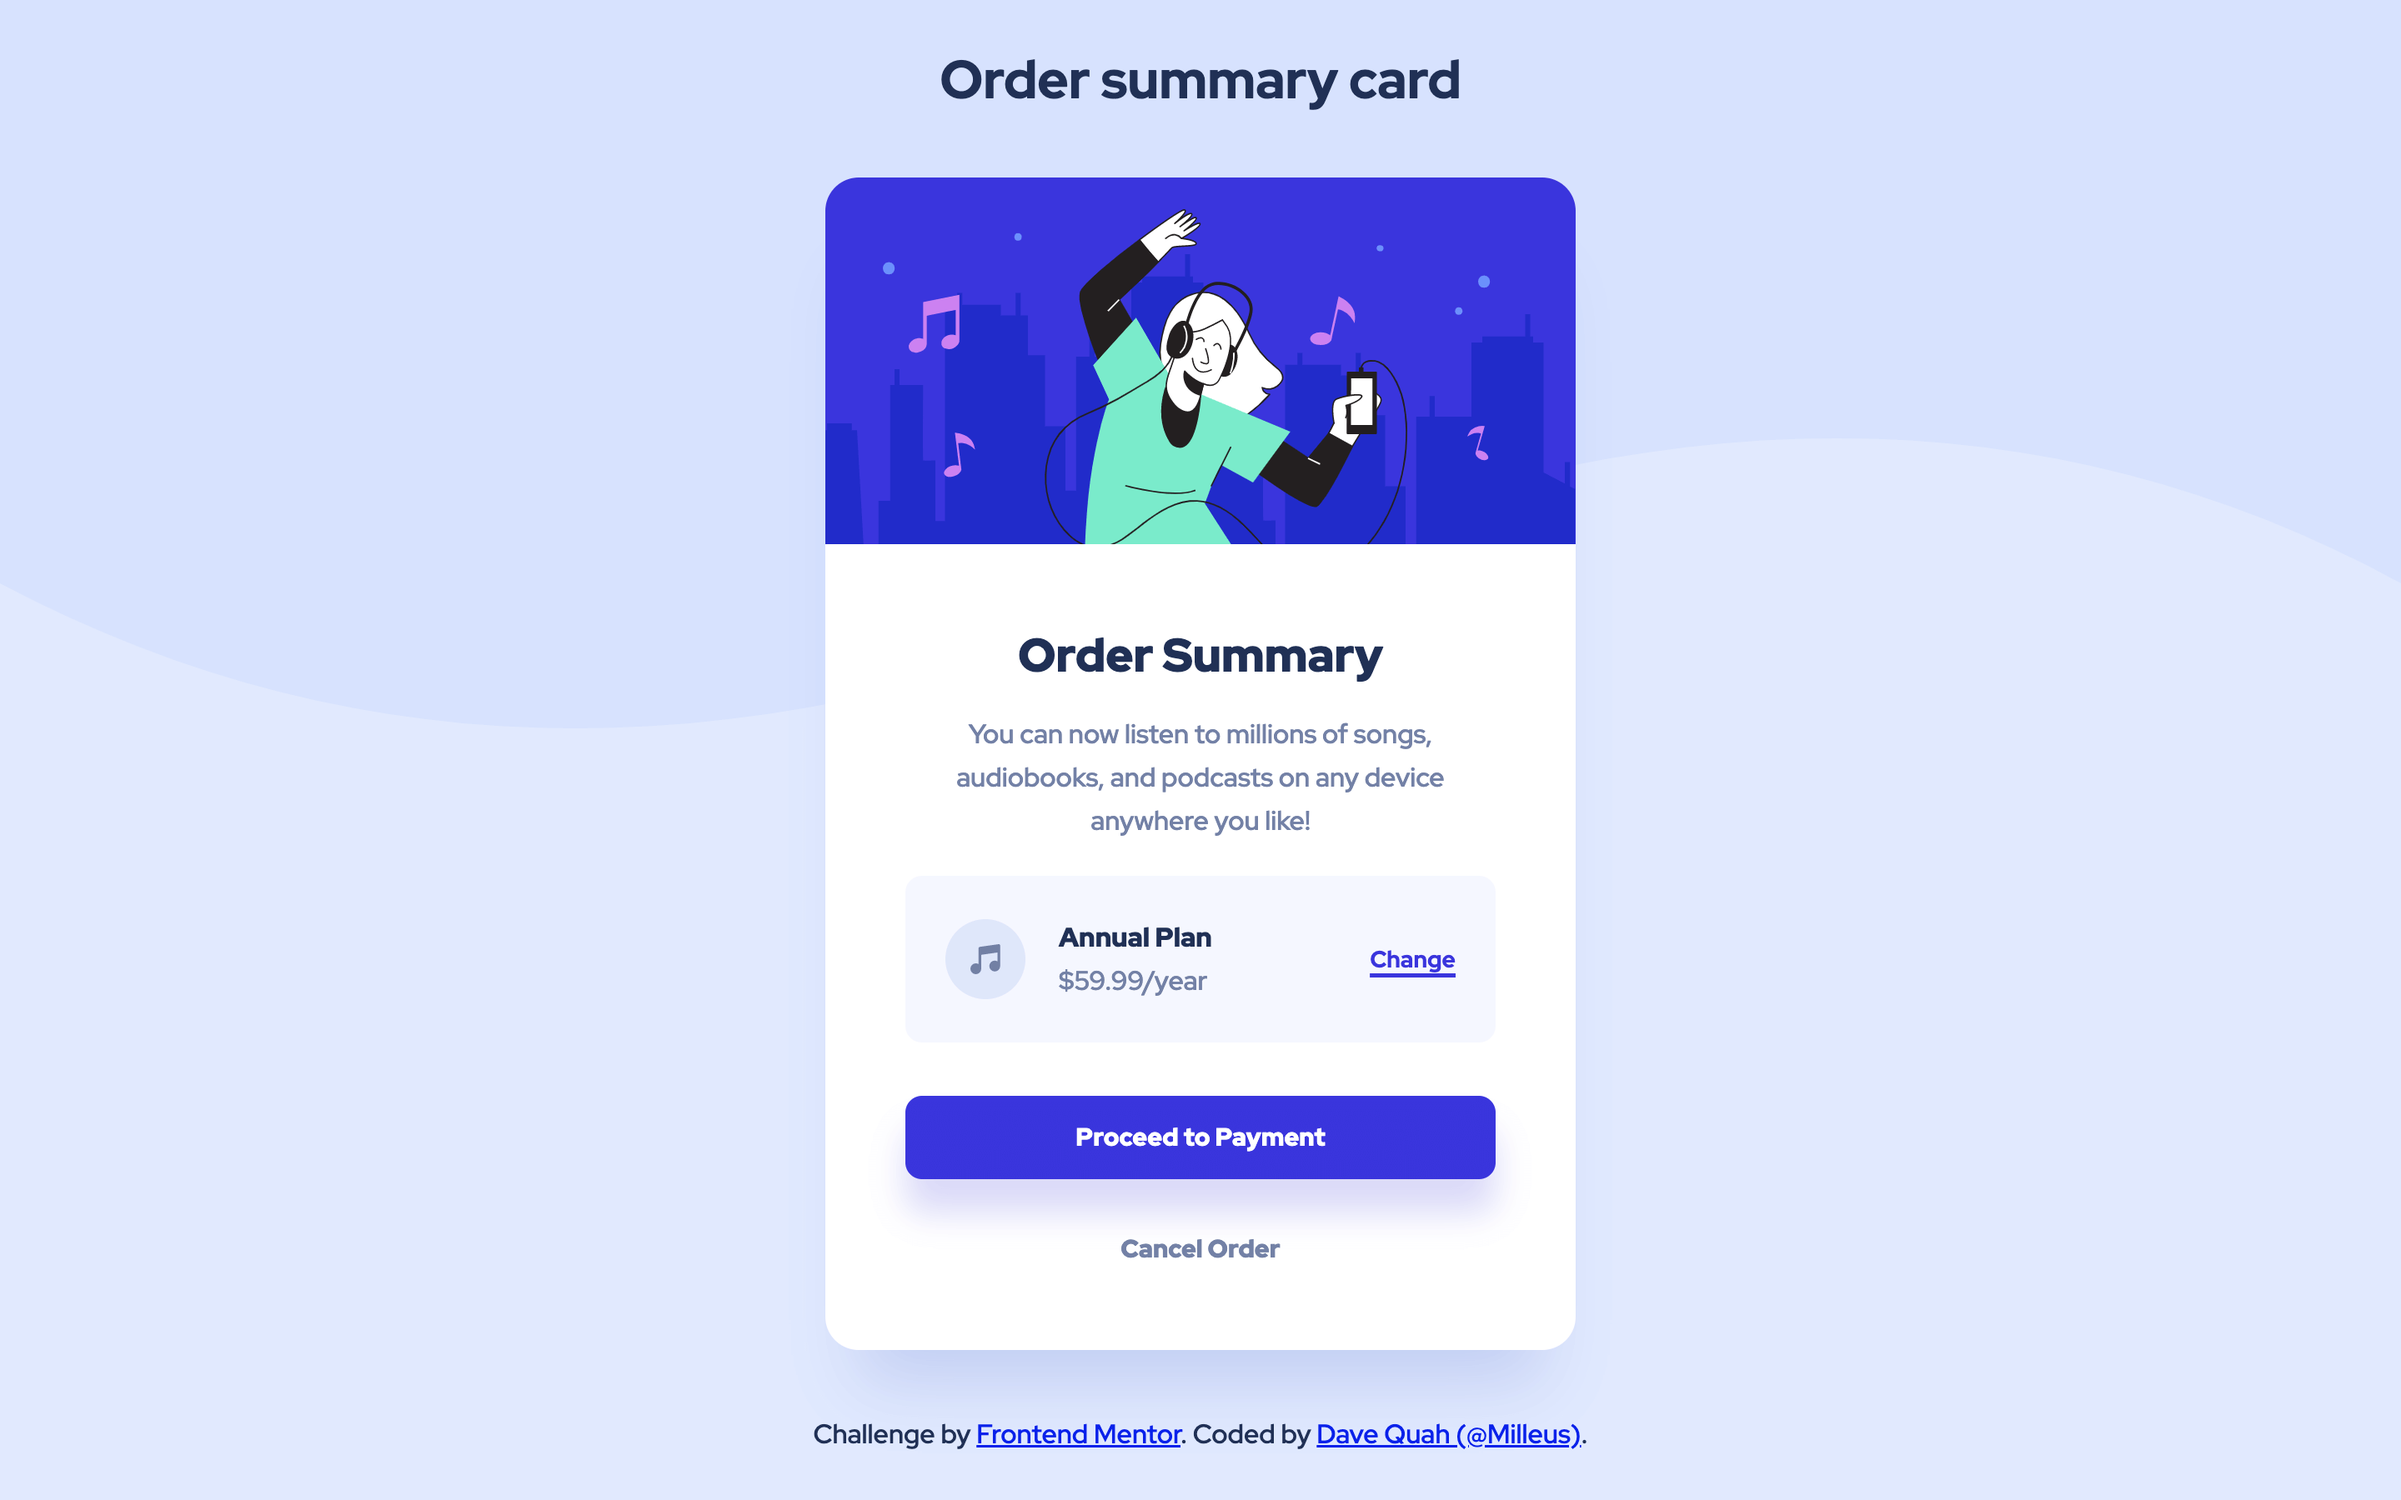
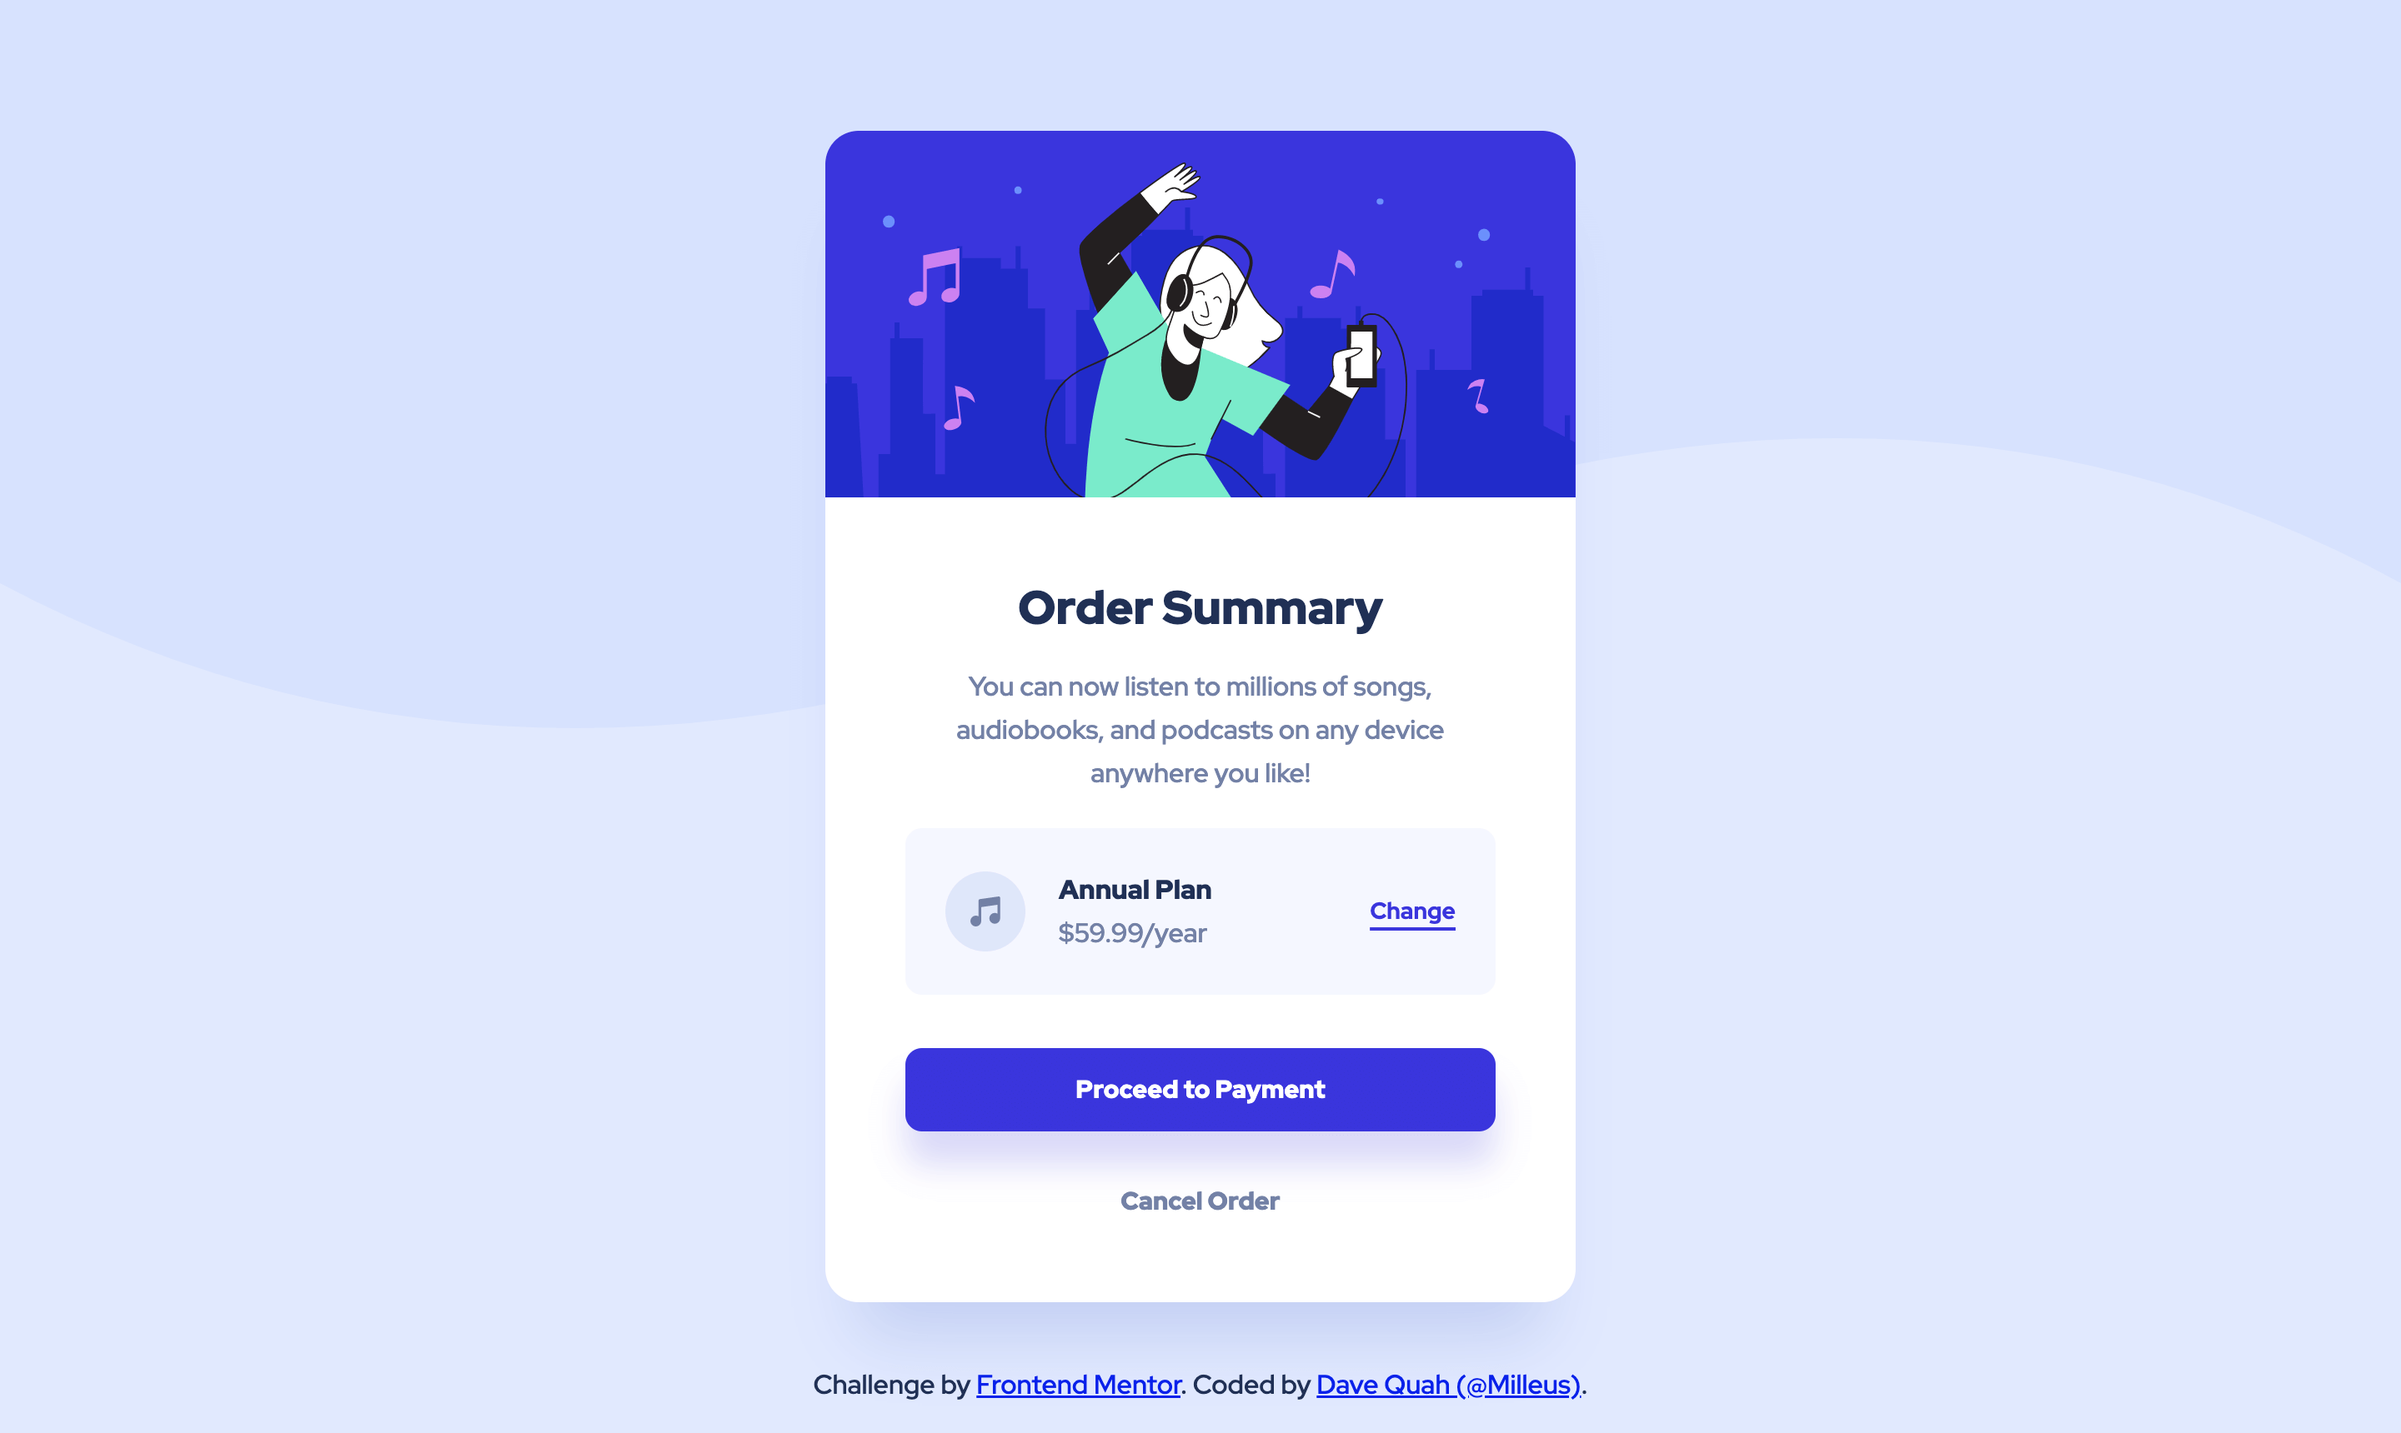
refactor: remove header

diff --git a/global.css b/global.css
@@ -70,22 +70,11 @@ body {
   min-height: 100vh;
   text-rendering: optimizeSpeed;
   line-height: 1.625;
-  display: grid;
-  place-items: center;
   font-family: var(--ff-sans);
   font-size: var(--fs-400);
   font-weight: var(--fw-500);
   color: hsl(var(--clr-neutral-400));
   background-color: hsl(var(--clr-blue-200));
-  margin-inline: 1.5rem;
-  background-image: url(/assets/pattern-background-mobile.svg);
-  background-repeat: repeat no-repeat;
-}
-
-@media (min-width: 35em) {
-  body {
-    background-image: url(/assets/pattern-background-desktop.svg);
-  }
 }
 
 /* A elements that don't have a class get default styles */
@@ -135,12 +124,29 @@ h3 {
 /* ------------------- */
 .flex {
   display: flex;
-  gap: var(--gap, 1rem);
+  gap: var(--flex-gap, 1rem);
+}
+
+.grid {
+  display: grid;
+  gap: var(--grid-gap, 1rem);
 }
 
 /* ------------------- */
 /* Utility             */
 /* ------------------- */
+.sr-only {
+  position: absolute;
+  width: 1px;
+  height: 1px;
+  padding: 0;
+  margin: -1px;
+  overflow: hidden;
+  clip: rect(0, 0, 0, 0);
+  white-space: nowrap;
+  border: 0;
+}
+
 .bg-neutral-100 {
   background-color: hsl(var(--clr-neutral-100));
 }
@@ -163,9 +169,6 @@ h3 {
 .ml-auto {
   margin-left: auto;
 }
-.my-16 {
-  margin-block: 1rem;
-}
 
 .w-full {
   width: 100%;
@@ -180,6 +183,88 @@ h3 {
 
 /* ------------------- */
 /* Block               */
+/* ------------------- */
+.container {
+  place-items: center;
+  grid-template-rows: 1fr auto 1fr;
+  grid-template-areas:
+    "header"
+    "main"
+    "footer";
+  min-height: 100vh;
+  min-width: fit-content;
+  padding: 1rem 1.5rem;
+  background-image: url(/assets/pattern-background-mobile.svg);
+  background-repeat: repeat no-repeat;
+}
+
+@media (min-width: 35em) {
+  .container {
+    background-image: url(/assets/pattern-background-desktop.svg);
+  }
+}
+
+.container > main {
+  grid-area: main;
+}
+
+.container > footer {
+  grid-area: footer;
+  align-self: end;
+}
+
+.card {
+  width: min(100%, 28.125rem);
+  border-radius: 1.25rem;
+  box-shadow: 0px 40px 40px -20px hsl(228 87% 39% / 0.15);
+  overflow: hidden;
+  margin-inline: auto;
+}
+
+.card-content {
+  padding: 2rem 1.5rem;
+  --flex-gap: 1.25rem;
+}
+
+.card-content > p {
+  margin-inline: 0.5rem;
+  margin-top: 1rem;
+}
+
+.card-content > .plan {
+  align-items: center;
+  border-radius: 0.625rem;
+  padding: 1rem;
+  font-size: 0.875rem;
+  margin-top: 1.5rem;
+}
+
+.card-content > button {
+  margin-top: 1.5rem;
+}
+
+@media (min-width: 35em) {
+  .card-content {
+    padding: 3rem;
+  }
+
+  .card-content > p {
+    margin-inline: 0;
+  }
+
+  .card-content > .plan {
+    padding: 1.5rem;
+    font-size: var(--fs-400);
+    margin-top: 1.25rem;
+  }
+
+  .card-content > button {
+    margin-top: 2rem;
+  }
+}
+
+/* ------------------- */
+/* Exception           */
 /* ------------------- */
 .button {
   cursor: pointer;
@@ -231,54 +316,4 @@ h3 {
 .link:focus {
   color: hsl(var(--clr-blue-300));
   text-decoration: none;
-}
-
-.card {
-  width: min(100%, 28.125rem);
-  border-radius: 1.25rem;
-  box-shadow: 0px 40px 40px -20px hsl(228 87% 39% / 0.15);
-  overflow: hidden;
-  margin-inline: auto;
-}
-
-.card-content {
-  padding: 2rem 1.5rem;
-  --gap: 1.25rem;
-}
-
-.card-content > p {
-  margin-inline: 0.5rem;
-  margin-top: 1rem;
-}
-
-.card-content > .plan {
-  align-items: center;
-  border-radius: 0.625rem;
-  padding: 1rem;
-  font-size: 0.875rem;
-  margin-top: 1.5rem;
-}
-
-.card-content > button {
-  margin-top: 1.5rem;
-}
-
-@media (min-width: 35em) {
-  .card-content {
-    padding: 3rem;
-  }
-
-  .card-content > p {
-    margin-inline: 0;
-  }
-
-  .card-content > .plan {
-    padding: 1.5rem;
-    font-size: var(--fs-400);
-    margin-top: 1.25rem;
-  }
-
-  .card-content > button {
-    margin-top: 2rem;
-  }
 }

diff --git a/index.html b/index.html
@@ -26,42 +26,41 @@
 </head>
 
 <body>
-  <header class="text-neutral-800 text-center my-16">
-    <h1>Order summary card</h1>
-  </header>
+  <div class="container grid">
+    <main>
+      <h1 class="sr-only">Order summary card</h1>
+      <div class="card bg-neutral-100 text-center">
+        <img src="/assets/illustration-hero.svg" alt="someone listening to music">
 
-  <main>
-    <div class="card bg-neutral-100 text-center">
-      <img src="/assets/illustration-hero.svg" alt="someone listening to music">
+        <div class="card-content">
+          <h2 class="fs-700 fw-900 text-neutral-800">Order Summary</h2>
+          <p>You can now listen to millions of songs, audiobooks, and podcasts on any
+            device anywhere you like!</p>
+          <div class="plan flex bg-neutral-200 text-start">
+            <div>
+              <img src="/assets/icon-music.svg" alt="">
+            </div>
+            <div>
+              <p class="fw-900 text-neutral-800">Annual Plan</p>
+              <p>$59.99/year</p>
+            </div>
+            <button class="link ml-auto">Change</button>
+          </div>
 
-      <div class="card-content">
-        <h2 class="fs-700 fw-900 text-neutral-800">Order Summary</h2>
-        <p>You can now listen to millions of songs, audiobooks, and podcasts on any
-          device anywhere you like!</p>
-        <div class="plan flex bg-neutral-200 text-start">
-          <div>
-            <img src="/assets/icon-music.svg" alt="">
-          </div>
-          <div>
-            <p class="fw-900 text-neutral-800">Annual Plan</p>
-            <p>$59.99/year</p>
-          </div>
-          <button class="link ml-auto">Change</button>
+          <button class="button w-full" data-type="primary">Proceed to Payment</button>
+          <button class="button" data-type="naked">Cancel Order</button>
         </div>
-
-        <button class="button w-full" data-type="primary">Proceed to Payment</button>
-        <button class="button" data-type="naked">Cancel Order</button>
       </div>
-    </div>
-  </main>
+    </main>
 
-  <footer class="text-neutral-800 text-center my-16">
-    <p>
-      Challenge by <a href="https://www.frontendmentor.io?ref=challenge" target="_blank" rel="noopener">Frontend
-        Mentor</a>.
-      Coded by <a href="https://www.frontendmentor.io/profile/Milleus">Dave Quah (@Milleus)</a>.
-    </p>
-  </footer>
+    <footer>
+      <p class="text-neutral-800 text-center">
+        Challenge by <a href="https://www.frontendmentor.io?ref=challenge" target="_blank" rel="noopener">Frontend
+          Mentor</a>.
+        Coded by <a href="https://www.frontendmentor.io/profile/Milleus">Dave Quah (@Milleus)</a>.
+      </p>
+    </footer>
+  </div>
 </body>
 
 </html>
